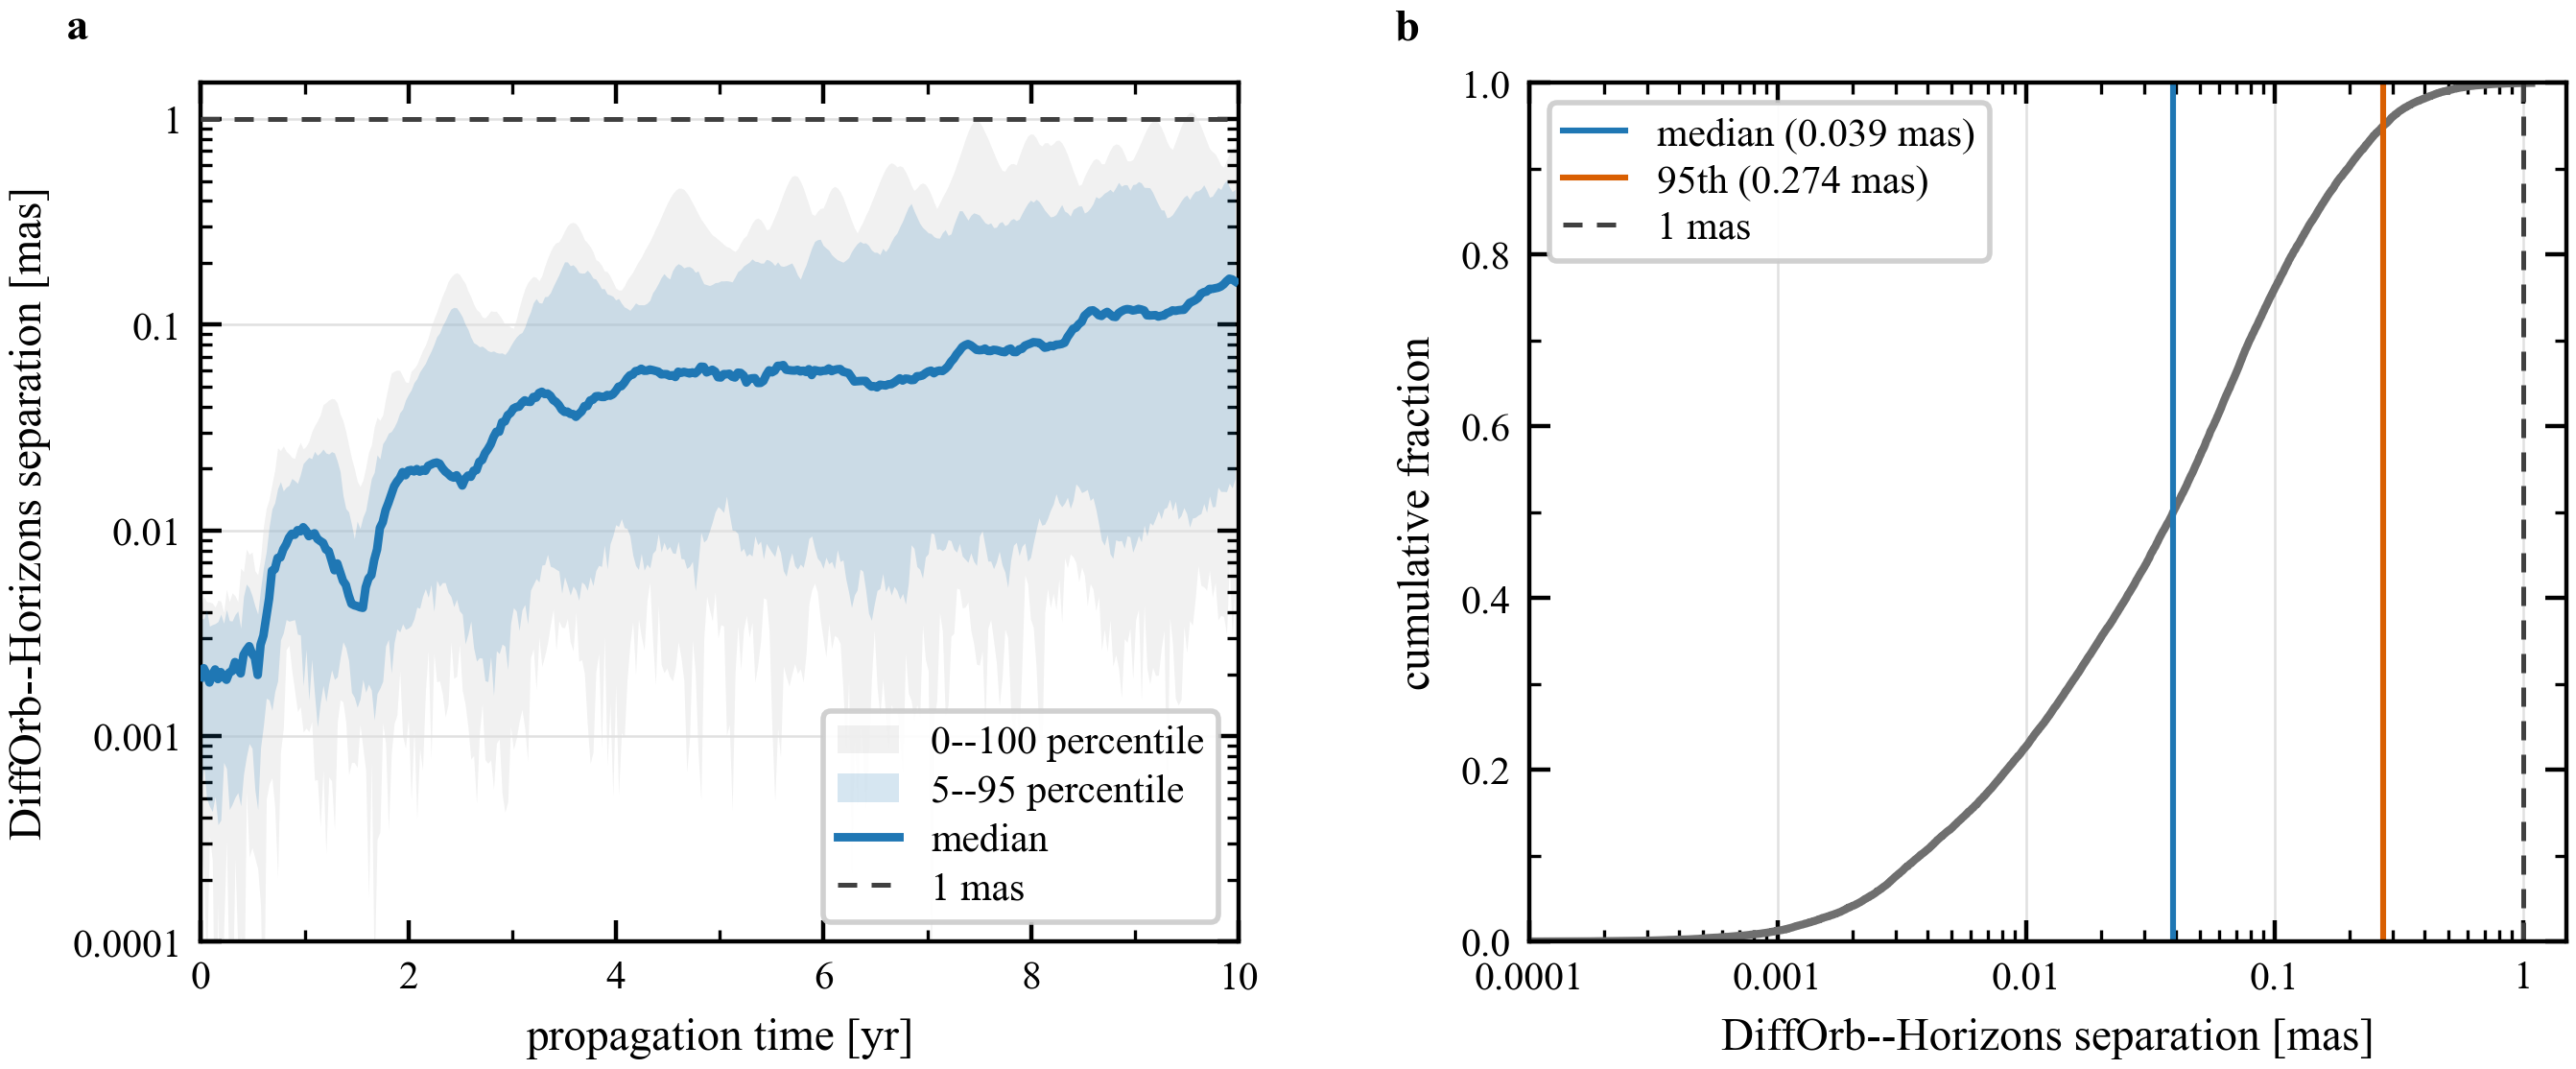
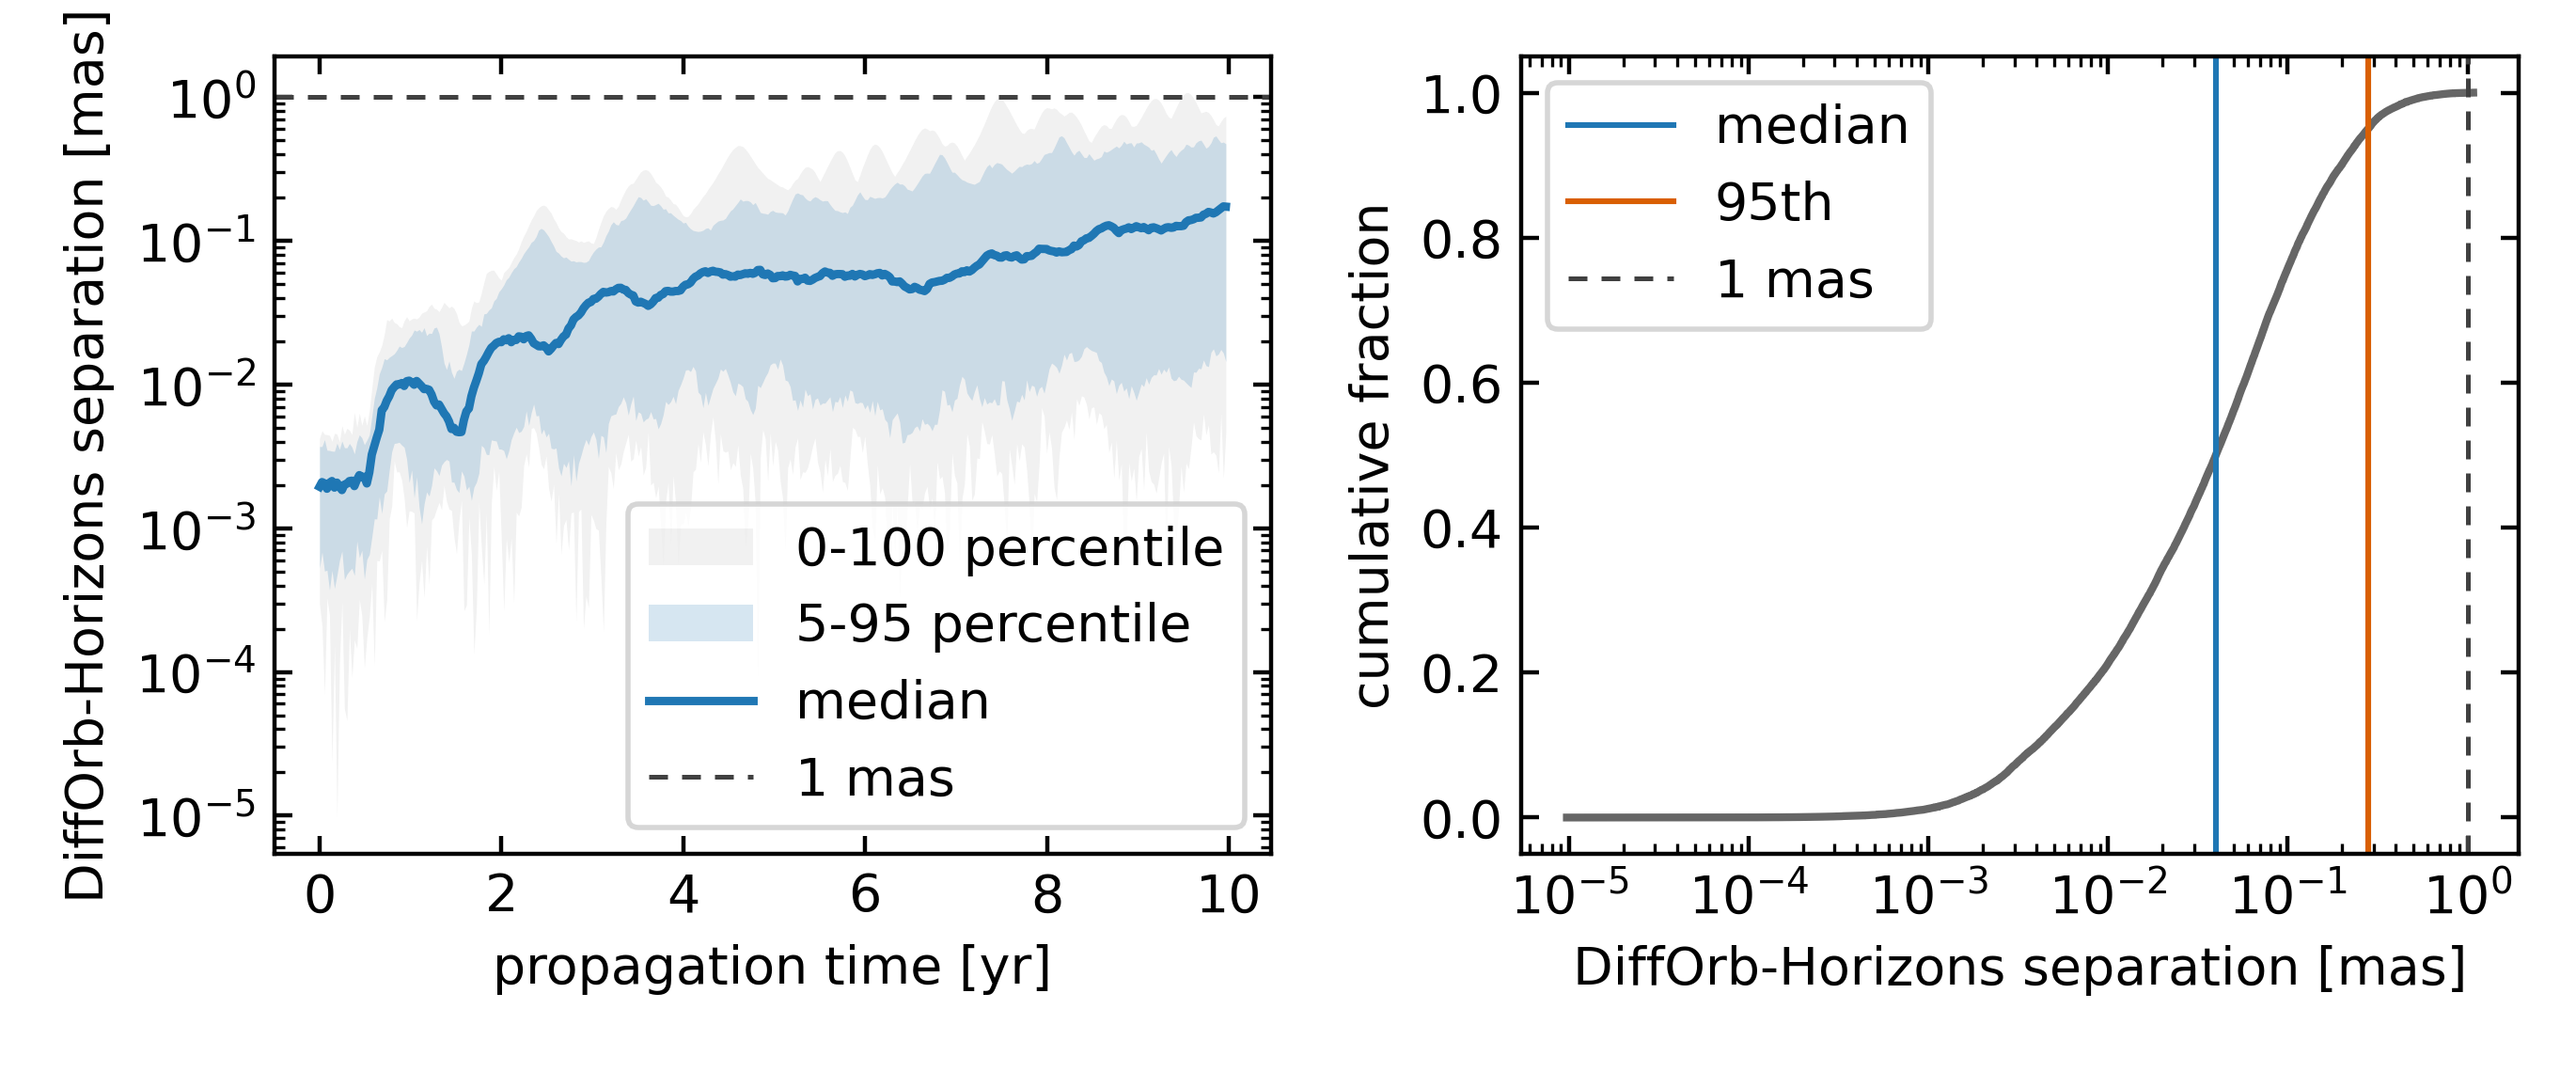
Update docs

Changed region(s): [[0.0, 0.0, 0.4946, 1.0], [0.5255, 0.0305, 1.0, 1.0]]

diff --git a/docs/workflows/ephemeris-products-workflow.md b/docs/workflows/ephemeris-products-workflow.md
@@ -2,7 +2,8 @@
 
 This workflow starts from one fixed orbit for `85472 Xizezong`. It propagates the orbit once. It then uses the same propagated trajectory to make optical, vector, radar, element, and event products.
 
-The last section compares the optical output with JPL Horizons for one target and for a random set of numbered small bodies.
+The final stage compares the optical output with JPL Horizons for the same target and for a fixed sample of `100`
+numbered main-belt asteroids.
 
 ## Prerequisites
 
@@ -296,29 +297,22 @@ ax.set_ylim(0.0, 0.3)
 
 ![Astrometric separation between DiffOrb and JPL Horizons for 85472 Xizezong](../assets/85472-xizezong-optical-vs-horizons.png)
 
-### Compare 100 Numbered Small Bodies
+### Compare 100 Numbered Main-Belt Asteroids
 
-This check draws `100` numbered small bodies with a fixed seed, queries one Horizons `BCRS` Cartesian state for each
-body at the same initial epoch, propagates the whole batch in DiffOrb, and compares the astrometric optical output with
-Horizons.
+This check draws `100` numbered main-belt asteroids with a fixed seed and the `MBA` class from the
+[JPL Small-Body Database](https://ssd-api.jpl.nasa.gov/doc/sbdb_filter.html). The numbered-asteroid range is stored with
+the validation run, and the `16` asteroid perturbers represented by `SB441-N16` are excluded. For each target, query one
+Horizons `BCRS` Cartesian state at a common initial epoch, propagate the complete batch in DiffOrb, and compare the
+astrometric optical output with Horizons.
 
-Use one fixed `TDB` initial epoch for all target states. Use one fixed `UTC` grid for the observer ephemerides. The
-observer is Xinglong Station (`327`). The target sample below uses the numbered-asteroid range stored with this
-validation run. If the numbered-asteroid range is refreshed from JPL SBDB, the selected target IDs can change.
+Use one fixed `TDB` initial epoch for all target states and one fixed `UTC` grid for the observer ephemerides. The
+observer is Xinglong Station (`327`).
 
 ```python
 from pathlib import Path
 
-import astropy.units as u
-import matplotlib.pyplot as plt
-import jax.numpy as jnp
-import numpy as np
-from astropy.coordinates import SkyCoord
-from astroquery.jplhorizons import Horizons
+import requests
 from tqdm import tqdm
-
-from difforb.body import Site, SmallBody
-from difforb.core import BCRS, State, Time
 
 target_count = 100
 random_seed = 43
@@ -327,6 +321,31 @@ number_max = 895_910
 excluded_target_ids = {
     1, 2, 3, 4, 7, 10, 15, 16, 31, 52, 65, 87, 88, 107, 511, 704
 }
+
+
+def fetch_orbit_class(target_id):
+    response = requests.get(
+        "https://ssd-api.jpl.nasa.gov/sbdb.api",
+        params={"sstr": str(target_id), "no-orbit": "1"},
+        timeout=30,
+    )
+    response.raise_for_status()
+    return response.json()["object"]["orbit_class"]["code"]
+
+
+rng = np.random.default_rng(random_seed)
+selected = set()
+checked = set()
+while len(selected) < target_count:
+    target_id = int(rng.integers(number_min, number_max + 1))
+    if target_id in excluded_target_ids or target_id in checked:
+        continue
+    checked.add(target_id)
+    if fetch_orbit_class(target_id) != "MBA":
+        continue
+    selected.add(target_id)
+
+target_ids = np.array(sorted(selected), dtype=int)
 
 initial_epoch = Time.from_tdb_date(2026, 1, 1)
 initial_epoch_jd = float(np.asarray(initial_epoch.tdb().jd))
@@ -339,15 +358,6 @@ horizons_range = {
     "step": "10d",
 }
 
-rng = np.random.default_rng(random_seed)
-selected = set()
-while len(selected) < target_count:
-    target_id = int(rng.integers(number_min, number_max + 1))
-    if target_id in excluded_target_ids:
-        continue
-    selected.add(target_id)
-
-target_ids = np.array(sorted(selected), dtype=int)
 observer_code = "327"
 observer = Site.from_code(observer_code).require_ground()
 ```
@@ -408,7 +418,9 @@ initial_state = State(
 )
 ```
 
-Create one batched `SmallBody`, propagate it for the full comparison interval, and build one batched optical table. Start the stored trajectory before the first observer epoch so the light-time solve stays inside the propagated interval. The `grid=True` call returns one time series for each target.
+Create one batched `SmallBody`, propagate it over the full comparison interval, and build one batched optical table.
+Start the stored trajectory before the first observer epoch so the light-time solve stays inside the propagated
+interval. The `grid=True` call returns one time series for each target.
 
 ```python
 target_batch = SmallBody.create(initial_state)
@@ -433,8 +445,7 @@ difforb_coord = SkyCoord(
 )
 ```
 
-Query Horizons for the same objects, observer, and `UTC` grid. `id_type="smallbody"` keeps numbered small bodies
-separate from major-body IDs.
+Query Horizons for the same targets, observer, and `UTC` grid.
 
 ```python
 horizons_ra = np.empty((len(target_ids), len(time_offsets)))
@@ -478,14 +489,13 @@ print("MAX_MAS", float(np.max(separation)))
 ```text title="Output"
 TARGETS 100
 EPOCHS 365
-MEDIAN_MAS 0.03903224717521309
-P95_MAS 0.2738868930459874
-P99_MAS 0.48034178172244024
-MAX_MAS 1.0784751105453636
+MEDIAN_MAS 0.039751306486715945
+P95_MAS 0.27954097710283615
+P99_MAS 0.49429578523240236
+MAX_MAS 1.077196629072347
 ```
 
-Plot the epoch-wise percentile envelope and the cumulative distribution of all separations. The full run makes
-`100 x 365` comparisons.
+Plot the epoch-wise percentile envelope and the cumulative distribution of all `100 x 365` separations.
 
 ```python
 years = np.asarray(time_offsets, dtype=float) / 365.25
@@ -513,6 +523,9 @@ ax_cdf.set_xlabel("DiffOrb-Horizons separation [mas]")
 ax_cdf.set_ylabel("cumulative fraction")
 ax_cdf.legend()
 
+for ax in (ax_time, ax_cdf):
+    ax.tick_params(which="both", direction="in", top=True, right=True)
+
 fig.tight_layout()
 
 fig_path = Path("numbered-small-bodies-vs-horizons.png")
@@ -520,11 +533,11 @@ fig.savefig(fig_path, dpi=400)
 print(fig_path)
 ```
 
-![Astrometric separation between DiffOrb and JPL Horizons for 100 numbered small bodies](../assets/numbered-small-bodies-vs-horizons.png)
+![Astrometric separation between DiffOrb and JPL Horizons for 100 numbered main-belt asteroids](../assets/numbered-small-bodies-vs-horizons.png)
 
-This batch comparison is a broad external check. It is not a fixed acceptance test. The result can change when Horizons
-updates an orbit solution, when the random sample changes, or when a different force model, observer, kernel set, or
-numbered-asteroid range is used.
+This batch comparison is a broad external check over the fixed main-belt sample. It is not a fixed acceptance test. The
+result can change when Horizons updates an orbit solution or when a different force model, observer, kernel set, target
+list, or software environment is used.
 
 ## Result
 
@@ -536,8 +549,8 @@ This workflow produces these products from one propagated `SmallBody`:
 - an element table
 - apside and close-approach event tables
 - a Horizons comparison for optical astrometry
-- a 100-target Horizons comparison plot for numbered small bodies
+- a 100-target Horizons comparison plot for numbered main-belt asteroids
 
-The numeric output above used `DE441`, `SB441-N16`, Xinglong Station (`327`), and a fixed random sample of numbered
-small bodies. Small numerical differences can appear across platforms, JAX or XLA versions, dependency versions, and
-Horizons service revisions.
+The numeric output above used `DE441`, `SB441-N16`, Xinglong Station (`327`), `85472 Xizezong`, and the fixed sample of
+`100` numbered main-belt asteroids. Small numerical differences can appear across platforms, JAX or XLA versions,
+dependency versions, and Horizons service revisions.

diff --git a/docs/concepts/time-scales-and-epoch-storage.md b/docs/concepts/time-scales-and-epoch-storage.md
@@ -16,7 +16,7 @@ DiffOrb keeps this split form through the whole conversion chain. If you exchang
 
 ## Time Scales Used By DiffOrb
 
-In the modern International Astronomical Union (`IAU`) framework, some time scales are uniform atomic or coordinate scales, and some follow the Earth's real rotation.[^iau][^kaplan] DiffOrb follows that split. The current API exposes `TAI`, `TT`, `UTC`, `UT1`, mixed `UT`, and `TDB`. Geocentric Coordinate Time (`TCG`) and Barycentric Coordinate Time (`TCB`) matter in the formal background, but the current API does not expose them as standard `Time` views.
+In the modern International Astronomical Union (`IAU`) framework, some time scales are uniform atomic or coordinate scales, and some follow the Earth's real rotation.[^kaplan] DiffOrb follows that split. The current API exposes `TAI`, `TT`, `UTC`, `UT1`, mixed `UT`, and `TDB`. Geocentric Coordinate Time (`TCG`) and Barycentric Coordinate Time (`TCB`) matter in the formal background, but the current API does not expose them as standard `Time` views.
 
 ### Terrestrial Time
 
@@ -30,7 +30,7 @@ In the modern International Astronomical Union (`IAU`) framework, some time scal
 
 `UTC` is the civil broadcast scale. DiffOrb defines it only for epochs on or after `1962-01-01`. For earlier epochs, use `UT1` instead.
 
-`UTC` started to appear in 1961, but DiffOrb uses `1962-01-01` as the boundary because the high-precision Earth Orientation Parameter (`EOP`) data used for Earth-based timing starts there. This also matches the JPL Horizons convention. Horizons treats observer-table `UT` as `UT1` before `1962-01-01` and as `UTC` on and after `1962-01-01`.
+`UTC` started to appear in 1961, but DiffOrb uses `1962-01-01` as the boundary because the high-precision Earth Orientation Parameter (`EOP`) data used for Earth-based timing starts there. This also matches the JPL Horizons convention. Horizons treats observer-table `UT` as `UT1` before `1962-01-01` and as `UTC` on and after `1962-01-01`.[^horizons-ut]
 
 Before 1972, `UTC` used linear rate adjustments instead of the modern leap-second system. DiffOrb keeps that historical distinction so converted observation times keep the right civil meaning.
 
@@ -38,13 +38,13 @@ Before 1972, `UTC` used linear rate adjustments instead of the modern leap-secon
 
 `UT1` is the Earth-rotation time scale. It follows the actual rotation angle of the Earth and is the `UT` scale used by Earth-rotation geometry.[^kaplan][^iers]
 
-For modern dates, DiffOrb converts between `TT` and `UT1` with `EOP` data. When the needed `EOP` span is not available, it falls back to the historical `Delta T = TT - UT1` polynomial model summarized by Espenak and Meeus.[^deltat]
+DiffOrb converts between `TT` and `UT1` with `EOP` data from the first covered epoch onward. Earlier epochs use the historical `Delta T = TT - UT1` model of Morrison et al.[^morrison]
 
-DiffOrb also exposes a mixed `UT` view. This is a library convention, not an `IAU` standard time scale. It means `UT1` before `1962-01-01` and `UTC` on and after `1962-01-01`.
+DiffOrb also exposes a mixed `UT` view. It means `UT1` before `1962-01-01` and `UTC` on and after `1962-01-01`.
 
 ### Barycentric Dynamical Time
 
-`TDB` is the practical barycentric dynamical scale used for state epochs and ephemeris arguments. It is not the same as `TCB`. It is designed to stay close to `TT` in average rate.[^iau][^kaplan]
+`TDB` is the practical barycentric dynamical scale used for state epochs and ephemeris arguments. It is not the same as `TCB`. It is designed to stay close to `TT` in average rate.[^kaplan]
 
 DiffOrb uses the same practical `TT -> TDB` model as `SOFA` `iauDtdb`.[^sofa] The inverse `TDB -> TT` path is built by fixed-point inversion of that same forward model.
 
@@ -53,14 +53,6 @@ In the topocentric form of the model, `TDB` can depend on observer position. For
 ## Why Time Stores TT While State Uses TDB
 
 These canonical choices serve different jobs. `Time` needs one uniform scale that can connect Earth-based inputs and outputs such as `UTC`, `UT1`, and `EOP` to barycentric dynamical work. `TT` is the bridge for that job. `State` is already a dynamical Cartesian object, so `TDB` is the more natural time scale for its epoch.
-
-## Connections To The Rest Of The Library
-
-[Earth Rotation And Terrestrial Geometry](earth-rotation-and-terrestrial-geometry.md) uses `TT`, `UT1`, and `EOP` together because the `ITRS -> GCRS` transformation depends on both the Earth's real spin and the precession-nutation and frame-bias model.
-
-[Frames And State Representation](frames-and-state-representation.md) starts one layer later. When a Cartesian `State` is transformed between reference frames, its epoch is already handled as `TDB`.
-
-Higher-level objects follow the same split. Ground rows in `Site` start with Earth-based time and Earth rotation. `EphemerisBody`, `SmallBody`, space rows in `Site`, and generic `State` transforms use `TDB` epochs.
 
 ## Read Next
 
@@ -77,8 +69,8 @@ Higher-level objects follow the same split. Ground rows in `Site` start with Ear
 
 ## References
 
-[^iau]: International Astronomical Union. Resolutions adopted at the XXIVth and XXVIth General Assemblies, especially the 1991 and 2000 resolutions on reference systems and time scales. <https://www.iau.org/Iau/Iau/Publications/List-of-Resolutions.aspx>
-[^kaplan]: Kaplan, G. H. *The IAU Resolutions on Astronomical Reference Systems, Time Scales, and Earth Rotation And Terrestrial Geometrys: Explanation and Implementation*, especially the sections on `TT`, `TDB`, `UTC`, and `UT1`.
+[^kaplan]: Kaplan, G. H. (2005). *The IAU Resolutions on Astronomical Reference Systems, Time Scales, and Earth Rotation Models: Explanation and Implementation*, especially the sections on `TT`, `TDB`, `UTC`, and `UT1`. U.S. Naval Observatory Circular 179. <https://aa.usno.navy.mil/publications/Circular_179>
 [^sofa]: Standards of Fundamental Astronomy. *SOFA Tools for Earth Attitude* and *SOFA Time Scale and Calendar Tools*, including the two-part Julian date convention and the practical `iauDtdb` model. <https://www.iausofa.org/>
 [^iers]: International Earth Rotation and Reference Systems Service. *IERS Conventions (2010)*, especially the sections on `UT1`, Earth rotation, and Earth orientation parameters.
-[^deltat]: Espenak, F., & Meeus, J. *Polynomial Expressions for Delta T*. NASA Eclipse Web Site. <https://eclipse.gsfc.nasa.gov/SEhelp/deltatpoly2004.html>
+[^horizons-ut]: JPL Solar System Dynamics. *Horizons System Manual*, quantity 30, "TDB-UT," which defines observer-table `UT` as `UT1` before 1962 and `UTC` from 1962 onward. <https://ssd.jpl.nasa.gov/horizons/manual.html>
+[^morrison]: Morrison, L. V., Stephenson, F. R., Hohenkerk, C. Y., & Zawilski, M. (2021). *Addendum 2020 to 'Measurement of the Earth's rotation: 720 BC to AD 2015'*. Proceedings of the Royal Society A, 477(2246), 20200776. <https://doi.org/10.1098/rspa.2020.0776>

diff --git a/docs/concepts/light-time-model.md b/docs/concepts/light-time-model.md
@@ -9,6 +9,8 @@ Optical observations use a one-way light-time solution. The observation epoch is
 The observer is evaluated at \(t_{\mathrm{r}}\), and the target is evaluated at the earlier emission epoch
 \(t_{\mathrm{r}} - \tau_{\mathrm{opt}}\). This gives the target direction seen by the observer.
 
+![One-way optical light-time geometry from the target emission epoch to the observer receive epoch](../assets/concepts/optical-one-way-light-time-geometry.png){ width="560" style="display: block; margin: 1rem auto 0;" }
+
 DiffOrb solves the one-way light time from:
 
 \[
@@ -34,6 +36,8 @@ time-scale rules that connect the observation time to `TDB`.
 Radar observations use a two-way light-time solution. The signal path has a down leg from the target to the receiver and an up leg from the transmitter to the target.[^yeomans] DiffOrb can use either the receive epoch or the transmit epoch as the caller-supplied reference epoch.
 
 When the reference epoch is the receive epoch \(t_{\mathrm{r}}\), DiffOrb solves the path backward from reception.
+
+![Two-way radar light-time geometry showing the transmit, bounce, and receive epochs](../assets/concepts/radar-two-way-light-time-geometry.png){ width="560" style="display: block; margin: 1rem auto 0;" }
 
 DiffOrb first solves the down-leg delay:
 
@@ -71,16 +75,16 @@ DiffOrb then solves the up-leg delay:
 + \Delta\tau_{\mathrm{u,tropo}}
 \]
 
+The first subscript on each correction term identifies the signal-path leg: \(\mathrm{d}\) for the down leg and
+\(\mathrm{u}\) for the up leg. The \(\Delta\tau_{\mathrm{d,rel}}\) and \(\Delta\tau_{\mathrm{u,rel}}\) terms are
+relativistic Shapiro delays.[^shapiro] The \(\Delta\tau_{\mathrm{d,cor}}\) and
+\(\Delta\tau_{\mathrm{u,cor}}\) terms are solar-corona delays.[^muhleman-anderson] The
+\(\Delta\tau_{\mathrm{d,tropo}}\) and \(\Delta\tau_{\mathrm{u,tropo}}\) terms are delays caused by the Earth's
+troposphere.[^urban]
+
 When the reference epoch is the transmit epoch \(t_{\mathrm{tx}}\), DiffOrb solves the same two legs forward. It first finds the target bounce epoch from the transmitter-to-target up leg, then finds the receiver epoch from the target-to-receiver down leg.
 
 The transmitter and receiver may be the same site for monostatic radar or different sites for bistatic radar. The radar delay is the solved round-trip light time.
-
-The delay correction terms are applied separately to the down leg and the up leg. Relativistic delay uses the Shapiro
-model.[^shapiro] Solar-corona delay follows the standard solar-corona electron-density
-correction.[^muhleman-anderson][^standish] Tropospheric delay is applied near Earth stations.[^urban]
-
-The radar two-way solution uses the dense target trajectory, transmitter and receiver site states, and the time-scale
-rules that connect `TDB`, `TT`, `UTC`, and `UT1`.
 
 ## Radar Doppler Reduction
 
@@ -108,7 +112,5 @@ Comet Orbits Using Radar Data*. The Astronomical Journal, 103(1), 303-317.
 [^muhleman-anderson]: Muhleman, D. O., & Anderson, J. D. (1981). *Solar wind electron densities from Viking
 dual-frequency radio measurements*. The Astrophysical Journal, 247, 1093-1101. NASA NTRS record:
 <https://ntrs.nasa.gov/citations/19810061604>
-[^standish]: Standish, E. M., & Williams, J. G. *Orbital Ephemerides of the Sun, Moon, and Planets*, in *Explanatory
-Supplement to the Astronomical Almanac*, especially Section 8.7.6.
 [^urban]: Urban, S. E., & Seidelmann, P. K. (eds.). *Explanatory Supplement to the Astronomical Almanac*, especially
-Section 8.7.5 on relativity and Section 8.7.7 on tropospheric delay.
+Section 8.7.7 on tropospheric delay.

diff --git a/docs/concepts/ephemeris-products.md b/docs/concepts/ephemeris-products.md
@@ -9,13 +9,13 @@ DiffOrb exposes several product families.
 
 - Optical tables give right ascension, declination, topocentric angles, distance, phase angle, elongation, and
   modeled magnitude.
-- Radar tables give delay, Doppler, range, and range rate.
+- Radar tables give two-way delay, Doppler shift, range, range rate, and transmitter and receiver pointing angles.
 - Vector tables give relative target-observer states.
 - Element tables give osculating elements at requested epochs.
 - Apsides tables give periapsis and apoapsis events.
 - Close-approach tables give close-approach epochs, distances, and relative speeds.
 
-## Corrections And References
+## Correction Levels
 
 Vector products can have three correction levels.
 
@@ -31,17 +31,7 @@ The optical apparent level applies more corrections than the vector apparent lev
 deflection by the Sun, stellar aberration, rotation to the true equator and equinox of date, and optional refraction for
 ground observers.[^urban]
 
-Radar products use the two-way light-time model described by Yeomans et al. (1992).[^yeomans] The delay can
-include relativistic delay, solar-corona delay, and tropospheric delay.[^shapiro][^muhleman-anderson][^standish][^urban]
-Radar Doppler is the derivative of the converged two-way delay with respect to the selected radar reference epoch.
-
-Element, apsides, and close-approach products are derived from the propagated target trajectory. They do not apply
-observer light-time corrections.
-
 ## Relation To JPL Horizons
-
-DiffOrb provides Horizons-like optical, radar, vector, element, apsides, and close-approach products. The optical and
-vector products use geometric, astrometric, and apparent concepts in the same broad sense as JPL Horizons.
 
 One difference matters for direct comparison. DiffOrb's Earth-based apparent `RA/Dec` uses the modern equator-of-date
 rotation described in [Earth Rotation And Terrestrial Geometry](earth-rotation-and-terrestrial-geometry.md). JPL
@@ -65,13 +55,6 @@ of-date origin.[^horizons]
 <https://doi.org/10.1103/PhysRevLett.13.789>
 [^urban]: Urban, S. E., & Seidelmann, P. K. (eds.). *Explanatory Supplement to the Astronomical Almanac*, especially
 the chapters on astrometric and apparent place, relativity, and tropospheric delay.
-[^yeomans]: Yeomans, D. K., Campbell, D. B., Chodas, P. W., Giorgini, J. D., & Ostro, S. J. (1992). *Asteroid and
-Comet Orbits Using Radar Data*. The Astronomical Journal, 103(1), 303-317.
-[^muhleman-anderson]: Muhleman, D. O., & Anderson, J. D. (1981). *Solar wind electron densities from Viking
-dual-frequency radio measurements*. The Astrophysical Journal, 247, 1093-1101. NASA NTRS record:
-<https://ntrs.nasa.gov/citations/19810061604>
-[^standish]: Standish, E. M., & Williams, J. G. *Orbital Ephemerides of the Sun, Moon, and Planets*, in *Explanatory
-Supplement to the Astronomical Almanac*, especially Section 8.7.6.
 [^horizons]: JPL Solar System Dynamics. *Horizons System Manual*, especially the sections on Earth true equator and
 equinox of date, apparent `RA/Dec`, and the documented `-53 mas` offset between the legacy `IAU 76/80` and modern
 `IAU 2006/2000A` of-date right-ascension origins. <https://ssd.jpl.nasa.gov/horizons/manual.html>

diff --git a/docs/concepts/earth-orientation-parameters.md b/docs/concepts/earth-orientation-parameters.md
@@ -21,14 +21,9 @@ correction terms for those residuals; they do not mean that an observed axis its
 - It gives polar-motion coordinates for the `ITRS -> TIRS` step of the `ITRS -> GCRS` transformation.
 - It supplies observed correction terms for the modeled `CIP` coordinates in `GCRS`.
 
-IERS products can publish the `CIP` residual correction in different coordinate forms. Modern `dX` and `dY` values are
-corrections to the modeled `X` and `Y` components of the `CIP` unit vector in `GCRS`.[^iers-c04-dxdy] DiffOrb's default
-C04 file is the `dPsi/dEps` form. In that path, the `dPsi` and `dEps` values from the `EOP` table are added to the
-model nutation angles before the corrected `CIP` vector and the `CIRS <-> GCRS` matrices are built.
-
-Those two forms represent the same correction layer through different coordinates. In DiffOrb's current `dPsi/dEps`
-path, the correction is applied to the nutation-angle variables. At the model level, its role is still to realize the
-observationally corrected `CIP` motion, not to change the precession polynomial by itself.
+DiffOrb uses the C04 `dPsi/dEps` form.[^iers-c04] The `dPsi` and `dEps` values from the `EOP` table are added to the
+model nutation angles before the corrected `CIP` vector and the `CIRS <-> GCRS` matrices are built. Their role is to
+realize the observationally corrected `CIP` motion, not to change the precession polynomial by itself.
 
 ## Coverage And Freshness
 
@@ -77,7 +72,6 @@ as `BCRS` or `GCRS`.
 
 [^iers-conventions]: International Earth Rotation and Reference Systems Service. *IERS Conventions (2010)*, especially
 the sections on Earth orientation, polar motion, and celestial intermediate quantities.
-[^iers-c04]: International Earth Rotation and Reference Systems Service. *Earth Orientation Parameters C04* series.
+[^iers-c04]: International Earth Rotation and Reference Systems Service. *EOP 20 C04 (IAU 2000A, dPsi, dEps), 0h UTC, 1962-now*. <https://datacenter.iers.org/versionMetadata.php?filename=latestVersionMeta%2F236_EOP_C04_20_dPsi_dEps_62-NOW_IAU2000236.txt>
 [^kaplan]: Kaplan, G. H. *The IAU Resolutions on Astronomical Reference Systems, Time Scales, and Earth Rotation Models: Explanation and Implementation*, especially Sections 5.4.4 and 6.5.1.
 [^iers-ch5]: International Earth Rotation and Reference Systems Service. *IERS Conventions (2010)*, Chapter 5, "Transformation between the International Terrestrial Reference System and the Geocentric Celestial Reference System." <https://www.iers.org/IERS/EN/Publications/TechnicalNotes/tn36>
-[^iers-c04-dxdy]: International Earth Rotation and Reference Systems Service. *EOP 14 C04 series of the Earth orientation parameters with respect to IAU 2006/2000A precession/nutation model*. <https://datacenter.iers.org/productMetadata.php?id=221>

diff --git a/docs/guides/index.md b/docs/guides/index.md
@@ -32,7 +32,7 @@ Guides show how to use the common DiffOrb APIs for one task at a time. Use them 
 - [Configure Force Models And Dynamic Systems](configure-force-models-and-dynamic-systems.md): build the standard major-body system, the extended system with asteroid perturbers, or one custom `ForceModel` with explicit gravity and non-gravitational terms.
 - [Propagate A SmallBody And Evaluate Dense Trajectories](propagate-a-smallbody-and-evaluate-dense-trajectories.md): propagate one `SmallBody`, check trajectory coverage, and query interpolated `BCRS` states inside the solved interval.
 
-## Observation Products
+## Ephemeris Products
 
 - [Get Optical Outputs In Observer And Vector Modes](get-optical-outputs-in-observer-and-vector-modes.md): sample observer-mode optical outputs and vector-mode relative states from one propagated target, one observer, and one observation-time grid.
 - [Get Radar Outputs In Monostatic And Bistatic Geometry](get-radar-outputs-in-monostatic-and-bistatic-geometry.md): sample 2025 BC10 radar delay and Doppler predictions at DSS-14 and compare them with JPL radar astrometry records.